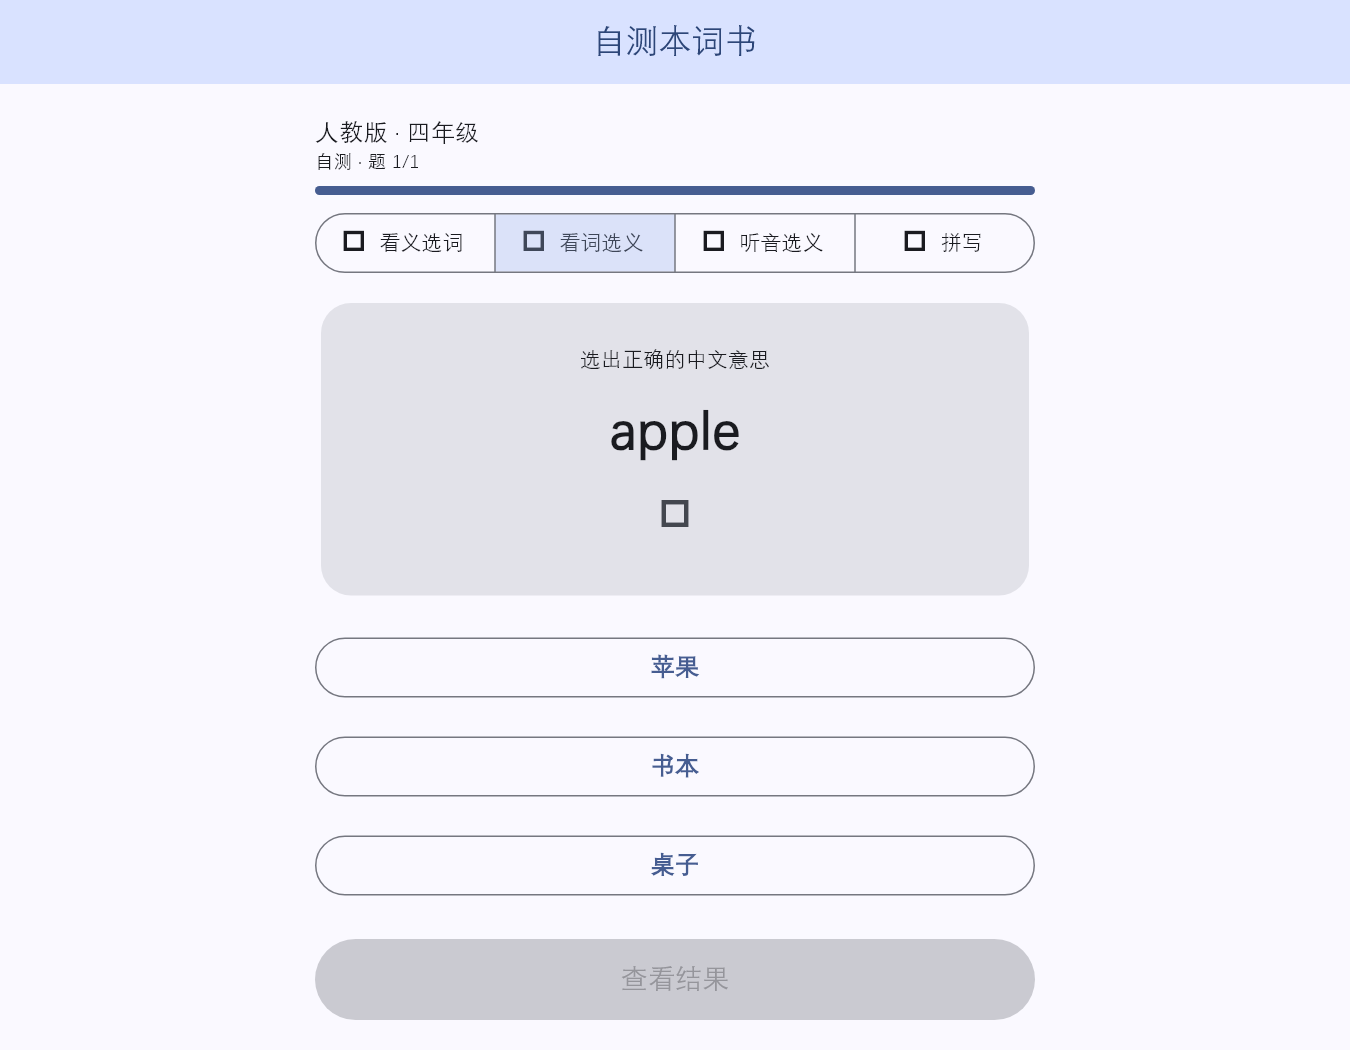
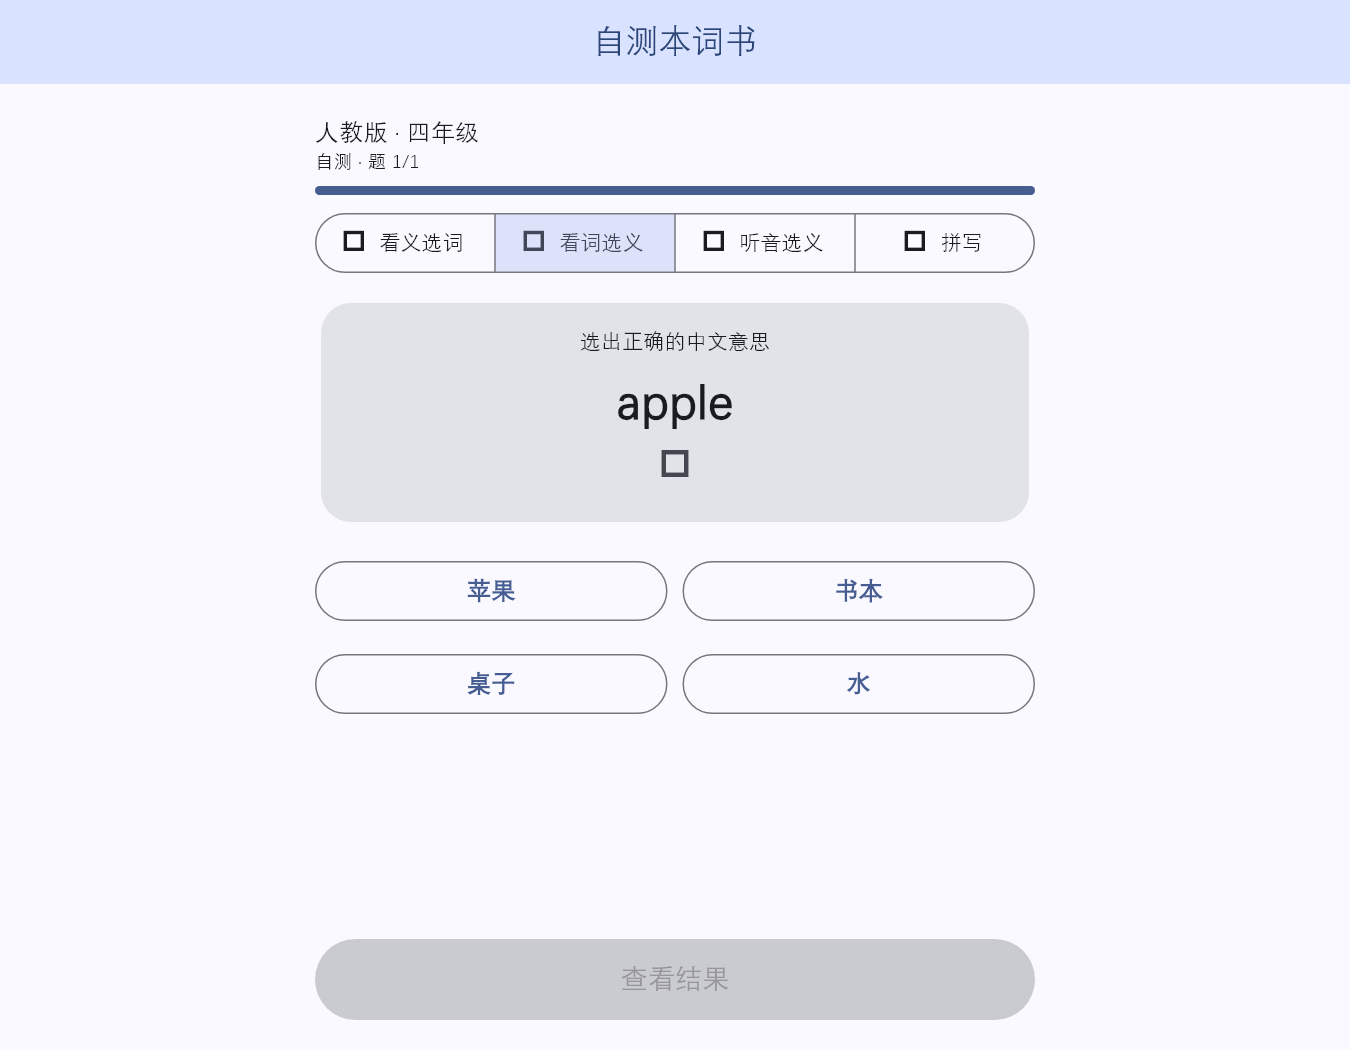
fix: R31 wide word-pick show all 4 options
Compact prompt; 2-col option grid when vertical space is tight.
Reshoot wide light/dark; acceptance 待复验.

diff --git a/lib/screens/quiz_screen.dart b/lib/screens/quiz_screen.dart
@@ -616,7 +616,10 @@ class _QuizScreenState extends State<QuizScreen> {
                     : (_isWordPick ? 'prompt_word' : 'prompt_meaning'),
               ),
               child: Padding(
-                padding: const EdgeInsets.symmetric(horizontal: 20, vertical: 28),
+                padding: EdgeInsets.symmetric(
+                  horizontal: 20,
+                  vertical: _isWordPick ? 16 : 28,
+                ),
                 child: _effectiveListen
                     ? Column(
                         children: [
@@ -645,19 +648,20 @@ class _QuizScreenState extends State<QuizScreen> {
                       )
                     : _isWordPick
                         ? Column(
+                            mainAxisSize: MainAxisSize.min,
                             children: [
                               Text('选出正确的中文意思', style: Theme.of(context).textTheme.labelLarge),
-                              const SizedBox(height: 12),
+                              const SizedBox(height: 8),
                               Text(
                                 q.target.word,
                                 key: const ValueKey('prompt_word_text'),
                                 textAlign: TextAlign.center,
-                                style: const TextStyle(fontSize: 36, fontWeight: FontWeight.bold),
+                                style: const TextStyle(fontSize: 32, fontWeight: FontWeight.bold),
                               ),
-                              const SizedBox(height: 8),
                               IconButton(
                                 key: const ValueKey('quiz_word_speak'),
                                 tooltip: '朗读',
+                                visualDensity: VisualDensity.compact,
                                 onPressed: () => _speak(q.target.word),
                                 icon: const Icon(Icons.volume_up),
                               ),
@@ -678,59 +682,92 @@ class _QuizScreenState extends State<QuizScreen> {
             ),
             const SizedBox(height: 16),
             Expanded(
-              child: ListView.separated(
-                itemCount: q.options.length,
-                separatorBuilder: (context, index) => const SizedBox(height: 10),
-                itemBuilder: (context, i) {
-                  final opt = q.options[i];
-                  Color? bg;
-                  Color? fg;
-                  BorderSide? side;
-                  if (_answered) {
-                    if (i == q.correctIndex) {
-                      bg = scheme.primaryContainer;
-                      fg = scheme.onPrimaryContainer;
-                      side = BorderSide(color: scheme.primary, width: 2);
-                    } else if (i == _selected) {
-                      bg = scheme.errorContainer;
-                      fg = scheme.onErrorContainer;
-                      side = BorderSide(color: scheme.error, width: 2);
+              child: LayoutBuilder(
+                builder: (context, constraints) {
+                  Widget optionTile(int i, {required bool compact}) {
+                    final opt = q.options[i];
+                    Color? bg;
+                    Color? fg;
+                    BorderSide? side;
+                    if (_answered) {
+                      if (i == q.correctIndex) {
+                        bg = scheme.primaryContainer;
+                        fg = scheme.onPrimaryContainer;
+                        side = BorderSide(color: scheme.primary, width: 2);
+                      } else if (i == _selected) {
+                        bg = scheme.errorContainer;
+                        fg = scheme.onErrorContainer;
+                        side = BorderSide(color: scheme.error, width: 2);
+                      }
                     }
-                  }
-                  final label = _usesMeaningOptions ? opt.meaning : opt.word;
-                  return SizedBox(
-                    height: 56,
-                    child: Row(
-                      children: [
-                        Expanded(
-                          child: OutlinedButton(
-                            style: OutlinedButton.styleFrom(
-                              backgroundColor: bg,
-                              foregroundColor: fg,
-                              side: side,
-                              alignment: Alignment.center,
-                            ),
-                            onPressed: _answered ? null : () => _onSelect(i),
-                            child: Text(
-                              label,
-                              textAlign: TextAlign.center,
-                              maxLines: 2,
-                              overflow: TextOverflow.ellipsis,
-                              style: TextStyle(
-                                fontSize: _usesMeaningOptions ? 16 : 20,
-                                fontWeight: FontWeight.w600,
+                    final label = _usesMeaningOptions ? opt.meaning : opt.word;
+                    final row = SizedBox(
+                      height: compact ? 48 : 56,
+                      child: Row(
+                        children: [
+                          Expanded(
+                            child: OutlinedButton(
+                              style: OutlinedButton.styleFrom(
+                                backgroundColor: bg,
+                                foregroundColor: fg,
+                                side: side,
+                                alignment: Alignment.center,
+                                padding: compact
+                                    ? const EdgeInsets.symmetric(horizontal: 8)
+                                    : null,
+                              ),
+                              onPressed: _answered ? null : () => _onSelect(i),
+                              child: Text(
+                                label,
+                                textAlign: TextAlign.center,
+                                maxLines: 2,
+                                overflow: TextOverflow.ellipsis,
+                                style: TextStyle(
+                                  fontSize: _usesMeaningOptions ? 16 : 20,
+                                  fontWeight: FontWeight.w600,
+                                ),
                               ),
                             ),
                           ),
-                        ),
-                        if (!_usesMeaningOptions)
-                          IconButton(
-                            tooltip: '朗读',
-                            onPressed: () => _speak(opt.word),
-                            icon: const Icon(Icons.volume_up),
-                          ),
-                      ],
-                    ),
+                          if (!_usesMeaningOptions)
+                            IconButton(
+                              tooltip: '朗读',
+                              onPressed: () => _speak(opt.word),
+                              icon: const Icon(Icons.volume_up),
+                            ),
+                        ],
+                      ),
+                    );
+                    return row;
+                  }
+
+                  // Wide/short: 2-col grid so all 4 meanings fit without scrolling off.
+                  final rowH = 56.0;
+                  final need = q.options.length * rowH + (q.options.length - 1) * 10;
+                  final useGrid = _isWordPick &&
+                      constraints.maxWidth >= 300 &&
+                      constraints.maxHeight < need;
+
+                  if (useGrid) {
+                    return GridView.builder(
+                      key: const ValueKey('quiz_options_grid'),
+                      physics: const NeverScrollableScrollPhysics(),
+                      gridDelegate: const SliverGridDelegateWithFixedCrossAxisCount(
+                        crossAxisCount: 2,
+                        mainAxisExtent: 52,
+                        crossAxisSpacing: 10,
+                        mainAxisSpacing: 10,
+                      ),
+                      itemCount: q.options.length,
+                      itemBuilder: (context, i) => optionTile(i, compact: true),
+                    );
+                  }
+
+                  return ListView.separated(
+                    key: const ValueKey('quiz_options_list'),
+                    itemCount: q.options.length,
+                    separatorBuilder: (context, index) => const SizedBox(height: 10),
+                    itemBuilder: (context, i) => optionTile(i, compact: false),
                   );
                 },
               ),

diff --git a/test/quiz_word_pick_test.dart b/test/quiz_word_pick_test.dart
@@ -122,4 +122,47 @@ void main() {
     expect(find.text('听'), findsOneWidget);
     expect(find.text('写'), findsOneWidget);
   });
+
+
+  testWidgets('wide short shows all 4 meaning options on screen', (tester) async {
+    SharedPreferences.setMockInitialValues({'quiz_variant': 'word', 'daily_goal': 5});
+    final store = await ProgressStore.open();
+    tester.view.physicalSize = const Size(900, 700);
+    tester.view.devicePixelRatio = 1.0;
+    addTearDown(tester.view.resetPhysicalSize);
+    addTearDown(tester.view.resetDevicePixelRatio);
+    final questions = [
+      QuizQuestion(
+        target: w('a', 'apple', '苹果'),
+        options: [
+          w('a', 'apple', '苹果'),
+          w('b', 'book', '书本'),
+          w('c', 'desk', '桌子'),
+          w('d', 'water', '水'),
+        ],
+        correctIndex: 0,
+      ),
+    ];
+    await tester.pumpWidget(
+      MaterialApp(
+        home: QuizScreen(
+          store: store,
+          repo: WordbookRepository(),
+          mode: QuizMode.book,
+          speaker: FakeWordSpeaker()..voiceAvailable = true,
+          seedQuestions: questions,
+        ),
+      ),
+    );
+    for (var i = 0; i < 30; i++) {
+      await tester.pump(const Duration(milliseconds: 50));
+    }
+    expect(find.text('苹果'), findsOneWidget);
+    expect(find.text('书本'), findsOneWidget);
+    expect(find.text('桌子'), findsOneWidget);
+    expect(find.text('水'), findsOneWidget);
+    // Prefer grid when vertical space is tight.
+    expect(find.byKey(const ValueKey('quiz_options_grid')), findsOneWidget);
+  });
+
 }

diff --git a/docs/requirements.md b/docs/requirements.md
@@ -3,7 +3,7 @@
 ### Round 31 · 自测变体「看词选义」
 
 **设计稿**：[docs/design-r31.md](design-r31.md)（必读后再开发）  
-**状态**：**代码完成 · 待 UI**（2026-10-23）
+**状态**：**UI 打回**（2026-10-23 · tip `422ca88` · 宽窗缺第 4 选项）
 
 **用户故事**  
 作为孩子，想在自测里看见英文单词并选出正确中文意思，避免只会「看中文选英文」。
@@ -37,7 +37,7 @@
 | R28 | 导出本词书已学进度 | [design-r28.md](design-r28.md) | **已完成** |
 | R29 | 到期复习清单 | [design-r29.md](design-r29.md) | **已完成** |
 | R30 | 本词书单元进度一览 | [design-r30.md](design-r30.md) | **已完成** |
-| R31 | 自测变体看词选义 | [design-r31.md](design-r31.md) | **代码完成 · 待 UI** |
+| R31 | 自测变体看词选义 | [design-r31.md](design-r31.md) | **UI 打回** |
 
 ---
 
@@ -56,7 +56,7 @@
 - [x] **R25 体验跃迁**（见 design-r25；UI 验收通过 2026-10-23）
 - [x] **R29** 到期复习清单（见 design-r29；**UI 验收通过** 2026-10-23）
 - [x] **R30** 本词书单元进度一览（见 design-r30；**UI 验收通过** 2026-10-23 · `r30-ui-acceptance.md`）
-- [ ] **R31** 自测变体看词选义（见 design-r31；**代码完成 · 待 UI** 2026-10-23 · `r31-ui-acceptance.md`）
+- [ ] **R31** 自测变体看词选义（见 design-r31；**UI 打回** 2026-10-23 · 宽窗缺第4选项 · `r31-ui-acceptance.md`）
 
 ## P2（体验）
 
@@ -253,7 +253,10 @@
 
 | 日期 | 说明 |
 |------|------|
+| 2026-10-23 | **R31 UI 打回**：窄窗词档 OK；宽窗四选一只露 3 项，修布局后重交宽浅/宽深 |
 | 2026-10-23 | **R31 升进行中**：看词选义可开发；R30 UI 通过收口；design 直接 commit HEAD |
+| 2026-10-23 | **R31 UI 打回**：宽窗只露 3 选项；已改 2 列网格重截宽浅/宽深 |
+| 2026-10-23 | **R31 待 UI 复验**：宽窗四义同屏修复 |
 | 2026-10-23 | **R31 代码完成 · 待 UI**：Segmented「词」档 + 四态截图；`r31-ui-acceptance.md` |
 | 2026-10-23 | **R30 UI 验收通过**：单元进度一览收口；进行中清空待产品升排 |
 | 2026-10-23 | **R30 代码完成 · 待 UI**：单元进度 sheet + 筛选跳转；`r30-ui-acceptance.md` |

diff --git a/docs/shots/r31-ui-acceptance.md b/docs/shots/r31-ui-acceptance.md
@@ -1,26 +1,27 @@
-# Round 31 · 自测变体「看词选义」· UI 验收
+# Round 31 · 自测变体「看词选义」· UI 验收（复验）
 
 **对应**：R31 / P1 看词选义  
 **设计稿**：`docs/design-r31.md`  
-**状态**：**代码完成 · 待 UI**
+**状态**：**待复验**（宽窗四选项打回已修）
 
 ## 环境
 
-- [ ] 看词 窄窗浅色 → `r31-word-narrow-light.png`
-- [ ] 看词 窄窗深色 → `r31-word-narrow-dark.png`
-- [ ] 看词 宽窗浅色 → `r31-word-wide-light.png`
-- [ ] 看词 宽窗深色 → `r31-word-wide-dark.png`
+- [x] 看词 窄窗浅色 → `r31-word-narrow-light.png`（沿用）
+- [x] 看词 窄窗深色 → `r31-word-narrow-dark.png`（沿用）
+- [x] 看词 宽窗浅色 → `r31-word-wide-light.png`（重拍）
+- [x] 看词 宽窗深色 → `r31-word-wide-dark.png`（重拍）
 
 ## 要点
 
-- [ ] Segmented 四档：**义** \| **词** \| **听** \| **写**（窄窗单字单行不溢出）
-- [ ] 看词题：题干英文大字；选项为中文义；判分前不露正解高亮
-- [ ] 对错 / 错词本联动与看义档一致（开发覆盖）
-- [ ] 我的页自测副文案含「看词」
-- [ ] 听/写/义无回归（本轮截图聚焦「词」档）
+- [x] Segmented 四档：**义** \| **词** \| **听** \| **写**（窄窗单字单行不溢出）
+- [x] 看词题：题干英文大字；**四中文义同屏可见**（宽窗矮屏改 2 列网格，勿裁第 4 项）
+- [x] 对错 / 错词本联动与看义档一致（开发覆盖）
+- [x] 我的页自测副文案含「看词」
+- [x] 听/写/义无回归（本轮截图聚焦「词」档）
 
 ## 设计师结论
 
-- 结论：（待验）
-- 日期：
-- 验收人：
+- 结论：**待复验**
+- 日期：2026-10-23
+- 验收人：（待 UI）
+- 改点：宽窗/矮屏选项区改为 2×2 网格，四义同屏；窄窗仍纵向列表。
